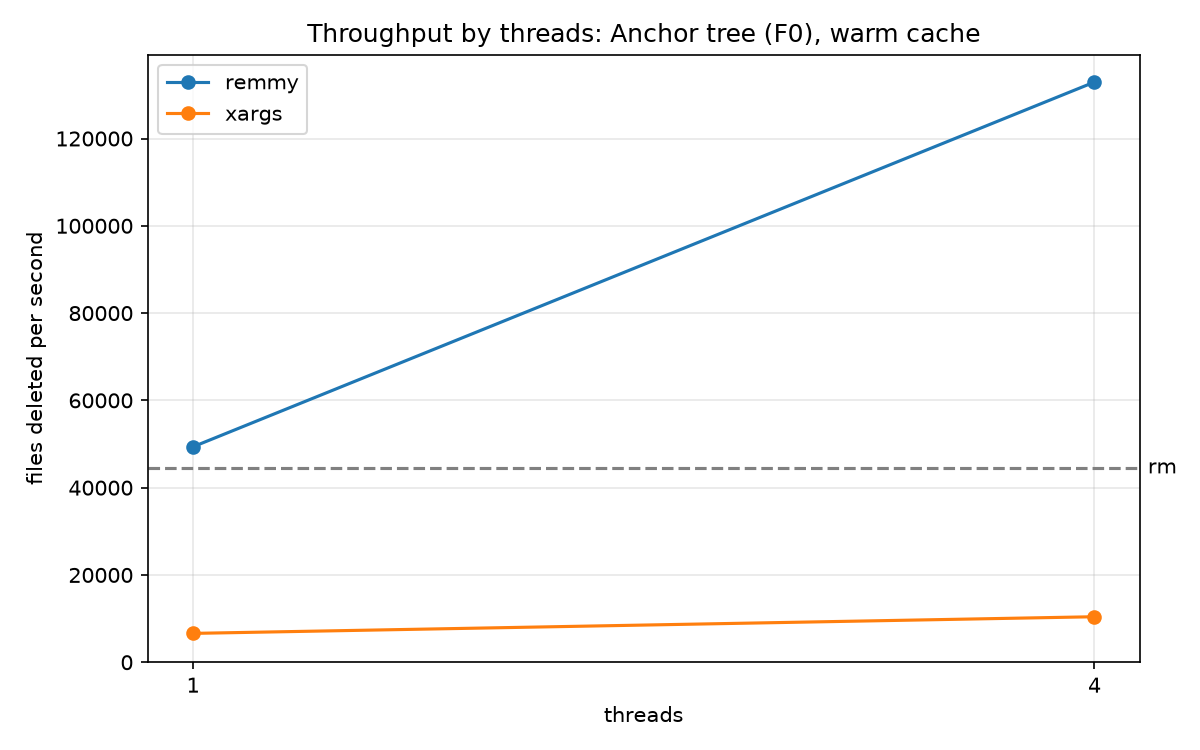
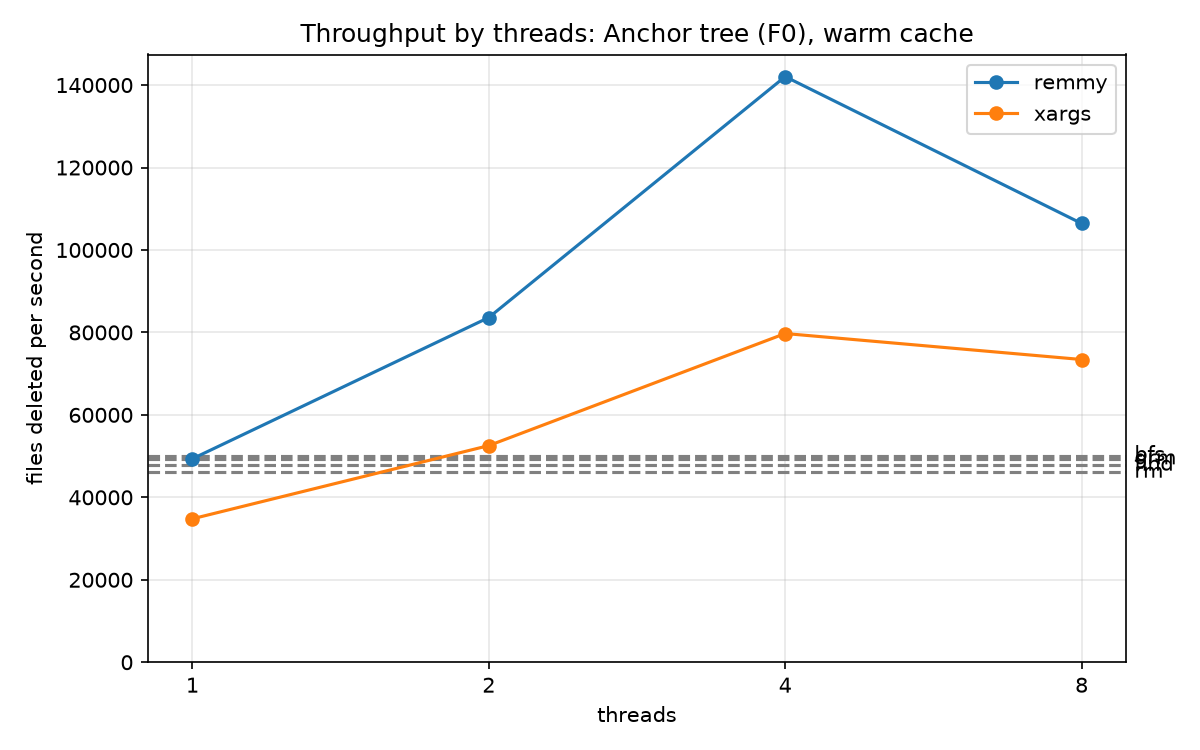
docs: update README charts

diff --git a/README.md b/README.md
@@ -13,15 +13,15 @@
 </div>
 
 <p align="center">
-  <img src=".github/res/time.png" alt="Median time to delete a 58,500-file tree: remmy with 4 threads 0.44 s, /bin/rm 1.3 s, find | xargs rm with 4 jobs 5.6 s" width="720">
+  <img src=".github/res/time.png" alt="Median time to delete a 58,500-file tree: remmy with 4 threads 0.41 s, find | xargs rm with 4 jobs 0.73 s, bfs, GNU rm and find about 1.2 s, /bin/rm 1.27 s" width="720">
 </p>
 
 <p align="center">
-  <img src=".github/res/scaling.png" alt="Files deleted per second: remmy rises from 49k at 1 thread to 133k at 4 threads; xargs stays near 10k; rm is 44k" width="640">
+  <img src=".github/res/scaling.png" alt="Files deleted per second: remmy rises from 49k at 1 thread to 142k at 4 threads and falls to 106k at 8; xargs peaks at 80k at 4 jobs; rm is 46k" width="640">
 </p>
 
-Deleting a 58,500-file tree takes `/bin/rm` **1.3 s**. remmy does it in
-**0.44 s**. It is a drop-in for `rm -r`.
+Deleting a 58,500-file tree takes `/bin/rm` **1.27 s**. remmy does it in
+**0.41 s**. It is a drop-in for `rm -r`.
 
 ```sh
 remmy -r node_modules target build
@@ -34,14 +34,44 @@ see it.
 
 | Tool                          | Time    | Files/s | vs. `rm` |
 | ----------------------------- | ------: | ------: | -------: |
-| **remmy** (4 threads)         | 0.44 s  |   133k  | **3.0×** |
-| remmy (1 thread)              | 1.2 s   |    49k  |    1.1×  |
-| `/bin/rm -rf`                 | 1.3 s   |    44k  |    1.0×  |
-| `find \| xargs -P4 rm`        | 5.6 s   |    10k  |    0.24× |
-| `find \| xargs rm`            | 8.9 s   |   6.6k  |    0.15× |
+| **remmy** (4 threads)         | 0.41 s  |   142k  | **3.1×** |
+| `find \| xargs -P4 rm`        | 0.73 s  |    80k  |    1.7×  |
+| `bfs -delete`                 | 1.17 s  |    50k  |    1.09× |
+| remmy (1 thread)              | 1.19 s  |    49k  |    1.07× |
+| GNU `rm -rf`                  | 1.19 s  |    49k  |    1.07× |
+| `find -delete`                | 1.22 s  |    48k  |    1.04× |
+| `/bin/rm -rf`                 | 1.27 s  |    46k  |    1.0×  |
+| `find \| xargs rm`            | 1.68 s  |    35k  |    0.76× |
 
-Even on one thread remmy is faster than `rm`. With four it is three times
-faster. Remmy achieves this by:
+The tree is 585 directories of 100 empty files each, with a warm cache. On one
+thread remmy is level with the fastest single-threaded tools. With four it is
+three times faster than `rm`, and 1.8× faster than the best shell pipeline.
+
+<p align="center">
+  <img src=".github/res/speedup-by-tree.png" alt="Speedup over /bin/rm by tree shape at 4 threads: remmy 2.5 to 3.1 times on trees of 51k to 333k files, 1.5 times on 1 MiB files, and 0.48 times on a 125-file tree" width="720">
+</p>
+
+Other trees tell the same story, with two exceptions:
+
+- **Large files.** On 1,935 files of 1 MiB each, remmy is 1.5× faster than
+  `rm`, about level with `xargs -P4`.
+- **Tiny trees.** On 125 files remmy takes 8.5 ms to `rm`'s 4.1 ms. The
+  thread count does not change it, so it is a fixed startup cost.
+
+<p align="center">
+  <img src=".github/res/time-cold.png" alt="Median time to delete the 58,500-file tree after purging the cache: remmy with 4 threads 0.77 s, xargs with 4 jobs 0.82 s, /bin/rm 1.32 s, remmy with 1 thread 1.56 s" width="640">
+</p>
+
+With a cold cache (`purge` before every run), remmy at 4 threads is 1.7× faster
+than `rm` and only just ahead of `xargs -P4`. On one thread it is 18% slower
+than `rm`.
+
+All numbers are medians of 20 runs (16 cold), each on a freshly built tree,
+timed with [hyperfine](https://github.com/sharkdp/hyperfine) on an M4
+MacBook Pro (16 GB, macOS 27). To reproduce them, run
+`uv run pytest tests/bench --bench=full -p no:xdist`.
+
+Remmy gets its speed by:
 
 1. **Never stats.** It reads raw directory entries with
    [`getdirentries64`](https://developer.apple.com/library/archive/documentation/System/Conceptual/ManPages_iPhoneOS/man2/getdirentries.2.html).
